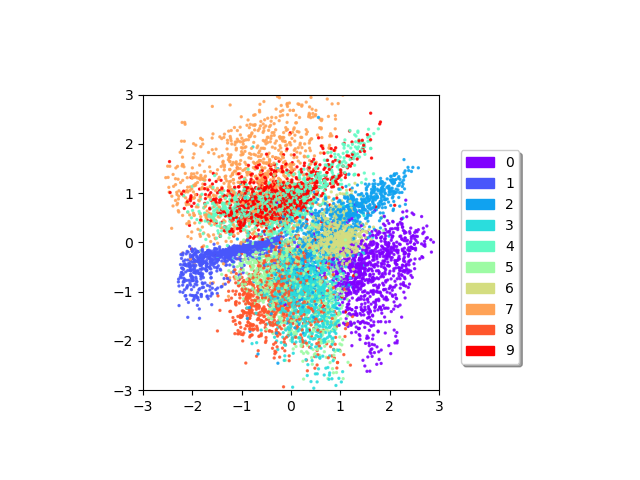
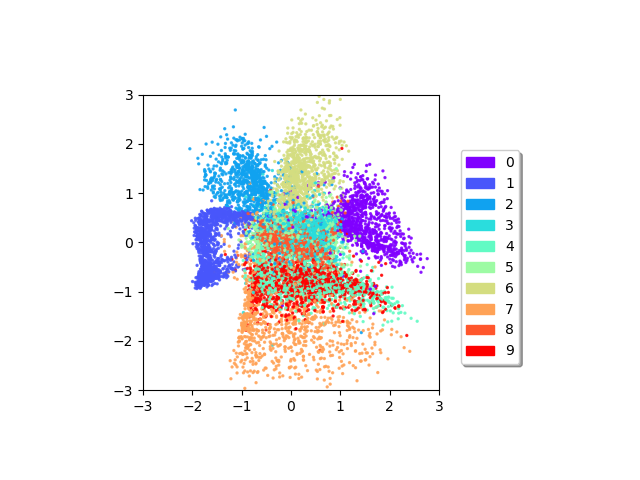
added supervised aae

Changed region(s): [[0.25, 0.1875, 0.6875, 0.8125]]

diff --git a/lib/models.py b/lib/models.py
@@ -15,45 +15,104 @@ from keras.layers.convolutional import UpSampling2D, Conv2D
 from keras.models import Sequential, Model
 from keras.optimizers import Adam
 
+
 # ----------------------------------------------------------------------------------------------------------------------
-# Models for unsupervised AAE
 # Encoder
-def create_encoder(image_size, h_dim, z_dim):
-    inputs = tf.keras.Input(shape=(image_size,))
-    x = tf.keras.layers.Dense(h_dim)(inputs)
-    x = tf.keras.layers.LeakyReLU()(x)
-    x = tf.keras.layers.Dropout(0.5)(x)
-    x = tf.keras.layers.Dense(h_dim)(x)
-    x = tf.keras.layers.LeakyReLU()(x)
-    x = tf.keras.layers.Dropout(0.5)(x)
-    encoded = tf.keras.layers.Dense(z_dim)(x)
-    model = tf.keras.Model(inputs=inputs, outputs=encoded)
-    return model
+class UnsupervisedDeterministic:
+    def __init__(self):
+        self.image_size = 784
+        self.h_dim = 1000
+        self.z_dim = 2
 
-def create_decoder(image_size, h_dim, z_dim):
-    encoded = tf.keras.Input(shape=(z_dim,))
-    x = tf.keras.layers.Dense(h_dim)(encoded)
-    x = tf.keras.layers.LeakyReLU()(x)
-    x = tf.keras.layers.Dropout(0.5)(x)
-    x = tf.keras.layers.Dense(h_dim)(x)
-    x = tf.keras.layers.LeakyReLU()(x)
-    x = tf.keras.layers.Dropout(0.5)(x)
-    reconstruction = tf.keras.layers.Dense(image_size, activation='sigmoid')(x)
-    model = tf.keras.Model(inputs=encoded, outputs=reconstruction)
-    return model
+        self.encoder = self.create_encoder()
+        self.decoder = self.create_decoder()
+        self.discriminator = self.create_discriminator()
 
+    def create_encoder(self):
+        inputs = tf.keras.Input(shape=(self.image_size,))
+        x = tf.keras.layers.Dense(self.h_dim)(inputs)
+        x = tf.keras.layers.LeakyReLU()(x)
+        x = tf.keras.layers.Dropout(0.5)(x)
+        x = tf.keras.layers.Dense(self.h_dim)(x)
+        x = tf.keras.layers.LeakyReLU()(x)
+        x = tf.keras.layers.Dropout(0.5)(x)
+        encoded = tf.keras.layers.Dense(self.z_dim)(x)
+        model = tf.keras.Model(inputs=inputs, outputs=encoded)
+        return model
 
-def create_discriminator(image_size, h_dim, z_dim):
-    encoded = tf.keras.Input(shape=(z_dim,))
-    x = tf.keras.layers.Dense(h_dim)(encoded)
-    x = tf.keras.layers.LeakyReLU()(x)
-    x = tf.keras.layers.Dropout(0.5)(x)
-    x = tf.keras.layers.Dense(h_dim)(x)
-    x = tf.keras.layers.LeakyReLU()(x)
-    x = tf.keras.layers.Dropout(0.5)(x)
-    prediction = tf.keras.layers.Dense(1)(x)
-    model = tf.keras.Model(inputs=encoded, outputs=prediction)
-    return model
+    # Decoder
+    def create_decoder(self):
+        encoded = tf.keras.Input(shape=(self.z_dim,))
+        x = tf.keras.layers.Dense(self.h_dim)(encoded)
+        x = tf.keras.layers.LeakyReLU()(x)
+        x = tf.keras.layers.Dropout(0.5)(x)
+        x = tf.keras.layers.Dense(self.h_dim)(x)
+        x = tf.keras.layers.LeakyReLU()(x)
+        x = tf.keras.layers.Dropout(0.5)(x)
+        reconstruction = tf.keras.layers.Dense(self.image_size, activation='sigmoid')(x)
+        model = tf.keras.Model(inputs=encoded, outputs=reconstruction)
+        return model
+
+    # Discriminator
+    def create_discriminator(self):
+        encoded = tf.keras.Input(shape=(self.z_dim,))
+        x = tf.keras.layers.Dense(self.h_dim)(encoded)
+        x = tf.keras.layers.LeakyReLU()(x)
+        x = tf.keras.layers.Dropout(0.5)(x)
+        x = tf.keras.layers.Dense(self.h_dim)(x)
+        x = tf.keras.layers.LeakyReLU()(x)
+        x = tf.keras.layers.Dropout(0.5)(x)
+        prediction = tf.keras.layers.Dense(1)(x)
+        model = tf.keras.Model(inputs=encoded, outputs=prediction)
+        return model
+
+class SupervisedDeterministic:
+    def __init__(self):
+        self.image_size = 784
+        self.h_dim = 1000
+        self.z_dim = 2
+        self.n_labels = 10
+
+        self.encoder = self.create_encoder_s()
+        self.decoder = self.create_decoder_s()
+        self.discriminator = self.create_discriminator_s()
+
+    def create_encoder_s(self):
+        inputs = tf.keras.Input(shape=(self.image_size,))
+        x = tf.keras.layers.Dense(self.h_dim)(inputs)
+        x = tf.keras.layers.LeakyReLU()(x)
+        x = tf.keras.layers.Dropout(0.5)(x)
+        x = tf.keras.layers.Dense(self.h_dim)(x)
+        x = tf.keras.layers.LeakyReLU()(x)
+        x = tf.keras.layers.Dropout(0.5)(x)
+        encoded = tf.keras.layers.Dense(self.z_dim)(x)
+        model = tf.keras.Model(inputs=inputs, outputs=encoded)
+        return model
+
+    def create_decoder_s(self):
+        encoded = tf.keras.Input(shape=(self.z_dim + self.n_labels,))
+        x = tf.keras.layers.Dense(self.h_dim)(encoded)
+        x = tf.keras.layers.LeakyReLU()(x)
+        x = tf.keras.layers.Dropout(0.5)(x)
+        x = tf.keras.layers.Dense(self.h_dim)(x)
+        x = tf.keras.layers.LeakyReLU()(x)
+        x = tf.keras.layers.Dropout(0.5)(x)
+        reconstruction = tf.keras.layers.Dense(self.image_size, activation='sigmoid')(x)
+        model = tf.keras.Model(inputs=encoded, outputs=reconstruction)
+        return model
+
+    def create_discriminator_s(self):
+        encoded = tf.keras.Input(shape=(self.z_dim,))
+        x = tf.keras.layers.Dense(self.h_dim)(encoded)
+        x = tf.keras.layers.LeakyReLU()(x)
+        x = tf.keras.layers.Dropout(0.5)(x)
+        x = tf.keras.layers.Dense(self.h_dim)(x)
+        x = tf.keras.layers.LeakyReLU()(x)
+        x = tf.keras.layers.Dropout(0.5)(x)
+        prediction = tf.keras.layers.Dense(1)(x)
+        model = tf.keras.Model(inputs=encoded, outputs=prediction)
+        return model
+
 
 # ----------------------------------------------------------------------------------------------------------------------
 
@@ -74,8 +133,8 @@ class GAN():
         # Build and compile the discriminator
         self.discriminator = self.build_discriminator()
         self.discriminator.compile(loss='binary_crossentropy',
-            optimizer=optimizer,
-            metrics=['accuracy'])
+                                   optimizer=optimizer,
+                                   metrics=['accuracy'])
 
         # Build the generator
         self.generator = self.build_generator()
@@ -94,7 +153,6 @@ class GAN():
         # Trains the generator to fool the discriminator
         self.combined = Model(z, validity)
         self.combined.compile(loss='binary_crossentropy', optimizer=optimizer)
-
 
     def build_generator(self):
 
@@ -179,7 +237,7 @@ class GAN():
             g_loss = self.combined.train_on_batch(noise, valid)
 
             # Plot the progress
-            print ("%d [D loss: %f, acc.: %.2f%%] [G loss: %f]" % (epoch, d_loss[0], 100*d_loss[1], g_loss))
+            print("%d [D loss: %f, acc.: %.2f%%] [G loss: %f]" % (epoch, d_loss[0], 100 * d_loss[1], g_loss))
 
             # If at save interval => save generated image samples
             if epoch % sample_interval == 0:
@@ -197,8 +255,8 @@ class GAN():
         cnt = 0
         for i in range(r):
             for j in range(c):
-                axs[i,j].imshow(gen_imgs[cnt, :,:,0], cmap='gray')
-                axs[i,j].axis('off')
+                axs[i, j].imshow(gen_imgs[cnt, :, :, 0], cmap='gray')
+                axs[i, j].axis('off')
                 cnt += 1
         fig.savefig("figures/%d.png" % epoch)
         plt.close()

diff --git a/unsupervsied_aae_deterministic.py b/unsupervsied_aae_deterministic.py
@@ -3,7 +3,7 @@ import matplotlib.pyplot as plt
 import matplotlib.patches as mpatches
 import numpy as np
 import tensorflow as tf
-import models
+from lib import models
 
 import time
 from pathlib import Path
@@ -19,9 +19,9 @@ except IndexError:
 ROOT_PATH = Path.cwd()
 
 # Setting the seed
-random_ssed = 1993
-tf.random.set_seed(random_ssed)
-np.random.seed(random_ssed)
+random_seed = 1993
+tf.random.set_seed(random_seed)
+np.random.seed(random_seed)
 
 # Ordner Path for images and results
 output_dir = ROOT_PATH / 'output'
@@ -45,6 +45,7 @@ x_test = x_test.astype('float32') / 255.
 x_train = x_train.reshape((-1, 28 * 28))
 x_test = x_test.reshape((-1, 28 * 28))
 
+
 # Parameter
 batch_size = 256
 train_buf = 60000
@@ -53,55 +54,16 @@ train_dataset = tf.data.Dataset.from_tensor_slices(x_train)
 train_dataset = train_dataset.shuffle(buffer_size=train_buf)
 train_dataset = train_dataset.batch(batch_size)
 
-image_size = 784
-h_dim = 1000
-z_dim = 2
-
-
-# Unsupervised AAE Model
-# def create_encoder():
-#     inputs = tf.keras.Input(shape=(image_size,))
-#     x = tf.keras.layers.Dense(h_dim)(inputs)
-#     x = tf.keras.layers.LeakyReLU()(x)
-#     x = tf.keras.layers.Dropout(0.5)(x)
-#     x = tf.keras.layers.Dense(h_dim)(x)
-#     x = tf.keras.layers.LeakyReLU()(x)
-#     x = tf.keras.layers.Dropout(0.5)(x)
-#     encoded = tf.keras.layers.Dense(z_dim)(x)
-#     model = tf.keras.Model(inputs=inputs, outputs=encoded)
-#     return model
-#
-#
-# def create_decoder():
-#     encoded = tf.keras.Input(shape=(z_dim,))
-#     x = tf.keras.layers.Dense(h_dim)(encoded)
-#     x = tf.keras.layers.LeakyReLU()(x)
-#     x = tf.keras.layers.Dropout(0.5)(x)
-#     x = tf.keras.layers.Dense(h_dim)(x)
-#     x = tf.keras.layers.LeakyReLU()(x)
-#     x = tf.keras.layers.Dropout(0.5)(x)
-#     reconstruction = tf.keras.layers.Dense(image_size, activation='sigmoid')(x)
-#     model = tf.keras.Model(inputs=encoded, outputs=reconstruction)
-#     return model
-#
-#
-# def create_discriminator():
-#     encoded = tf.keras.Input(shape=(z_dim,))
-#     x = tf.keras.layers.Dense(h_dim)(encoded)
-#     x = tf.keras.layers.LeakyReLU()(x)
-#     x = tf.keras.layers.Dropout(0.5)(x)
-#     x = tf.keras.layers.Dense(h_dim)(x)
-#     x = tf.keras.layers.LeakyReLU()(x)
-#     x = tf.keras.layers.Dropout(0.5)(x)
-#     prediction = tf.keras.layers.Dense(1)(x)
-#     model = tf.keras.Model(inputs=encoded, outputs=prediction)
-#     return model
-
 
 # Creating the models
-encoder = models.create_encoder(image_size, h_dim, z_dim)
-decoder = models.create_decoder(image_size, h_dim, z_dim)
-discriminator = models.create_discriminator(image_size, h_dim, z_dim)
+aae = models.UnsupervisedDeterministic()
+z_dim = aae.z_dim
+h_dim = aae.h_dim
+image_size = aae.image_size
+
+encoder = aae.encoder
+decoder = aae.decoder
+discriminator = aae.discriminator
 
 encoder.summary()
 decoder.summary()

diff --git a/main.py b/main.py
@@ -1,15 +1,24 @@
 # import
-import models
+from lib import models
 import tensorflow as tf
 
+# ----------------------------------------------------------------------------------------------------------------------
+
+# Limiting GPU memory
 try:
     tf.config.experimental.set_memory_growth(tf.config.list_physical_devices("GPU")[0], True)
 except IndexError:
     tf.config.run_functions_eagerly(True)
     pass  # No GPUs available
 
+# ----------------------------------------------------------------------------------------------------------------------
+# Training AAE unsupervsied and deterministic
+print('AAE Unsup Building')
+aae_unsup = models.aae_unsup()
+
+# ----------------------------------------------------------------------------------------------------------------------
+# Training GAN
 print('GAN Training')
 gan = models.GAN()
-
 gan.train(epochs=300, batch_size=32, sample_interval=200)
 

diff --git a/lib/DataHandler.py b/lib/DataHandler.py
@@ -9,5 +9,7 @@ class MNIST():
     x_train = x_train.astype('float32') / 255.
     x_test = x_test.astype('float32') / 255.
 
-    x_train = np.expand_dims(x_train, -1)
-    x_test = np.expand_dims(x_test, -1)
+    # Flatten the dataset
+    x_train = x_train.reshape((-1, 28 * 28))
+    x_test = x_test.reshape((-1, 28 * 28))
+
